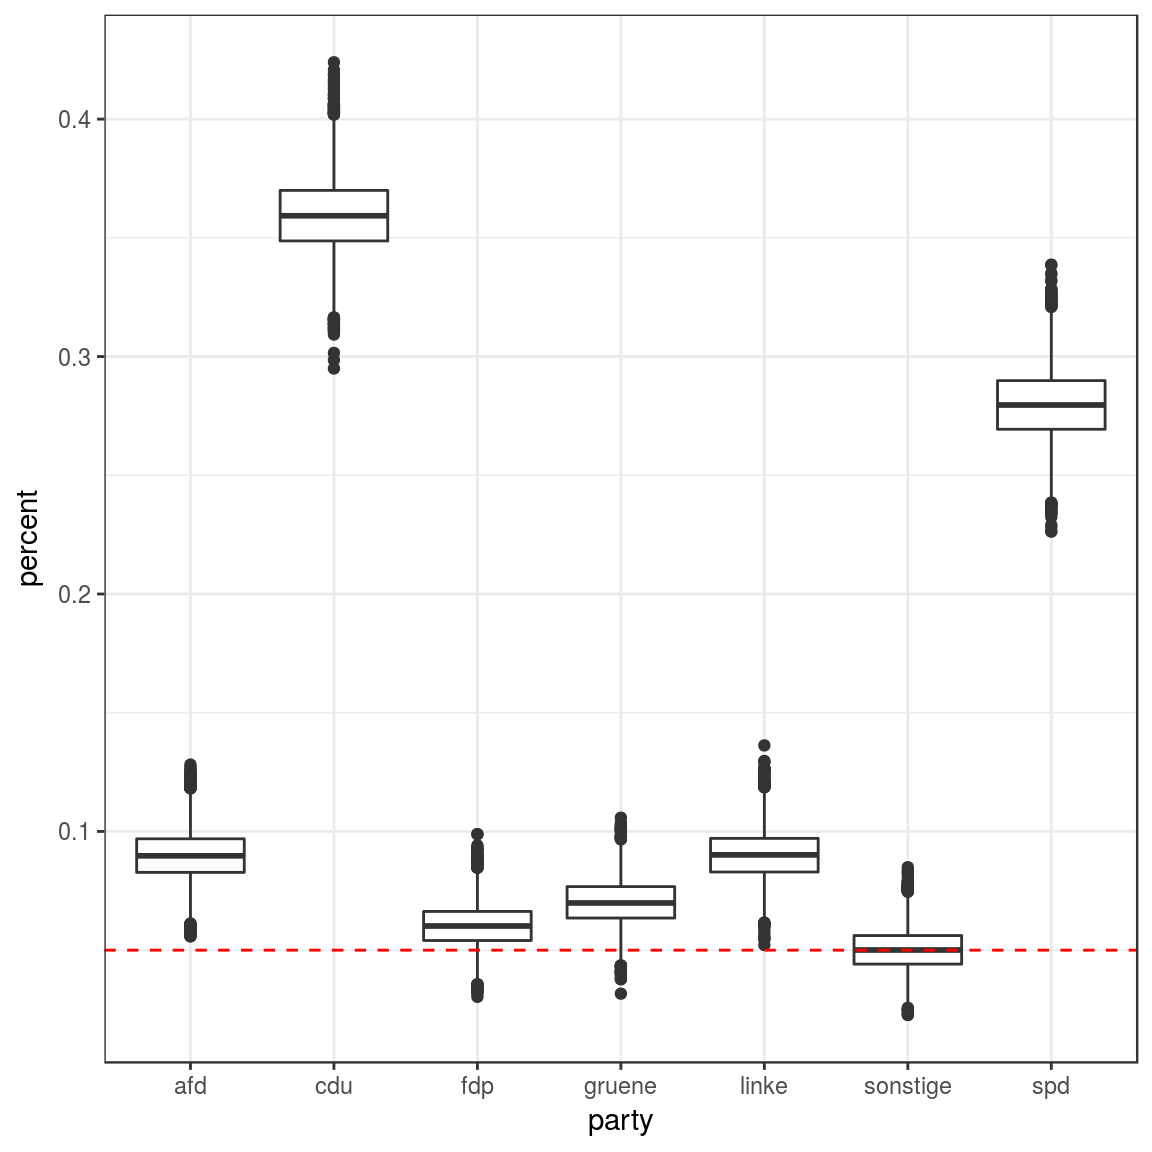
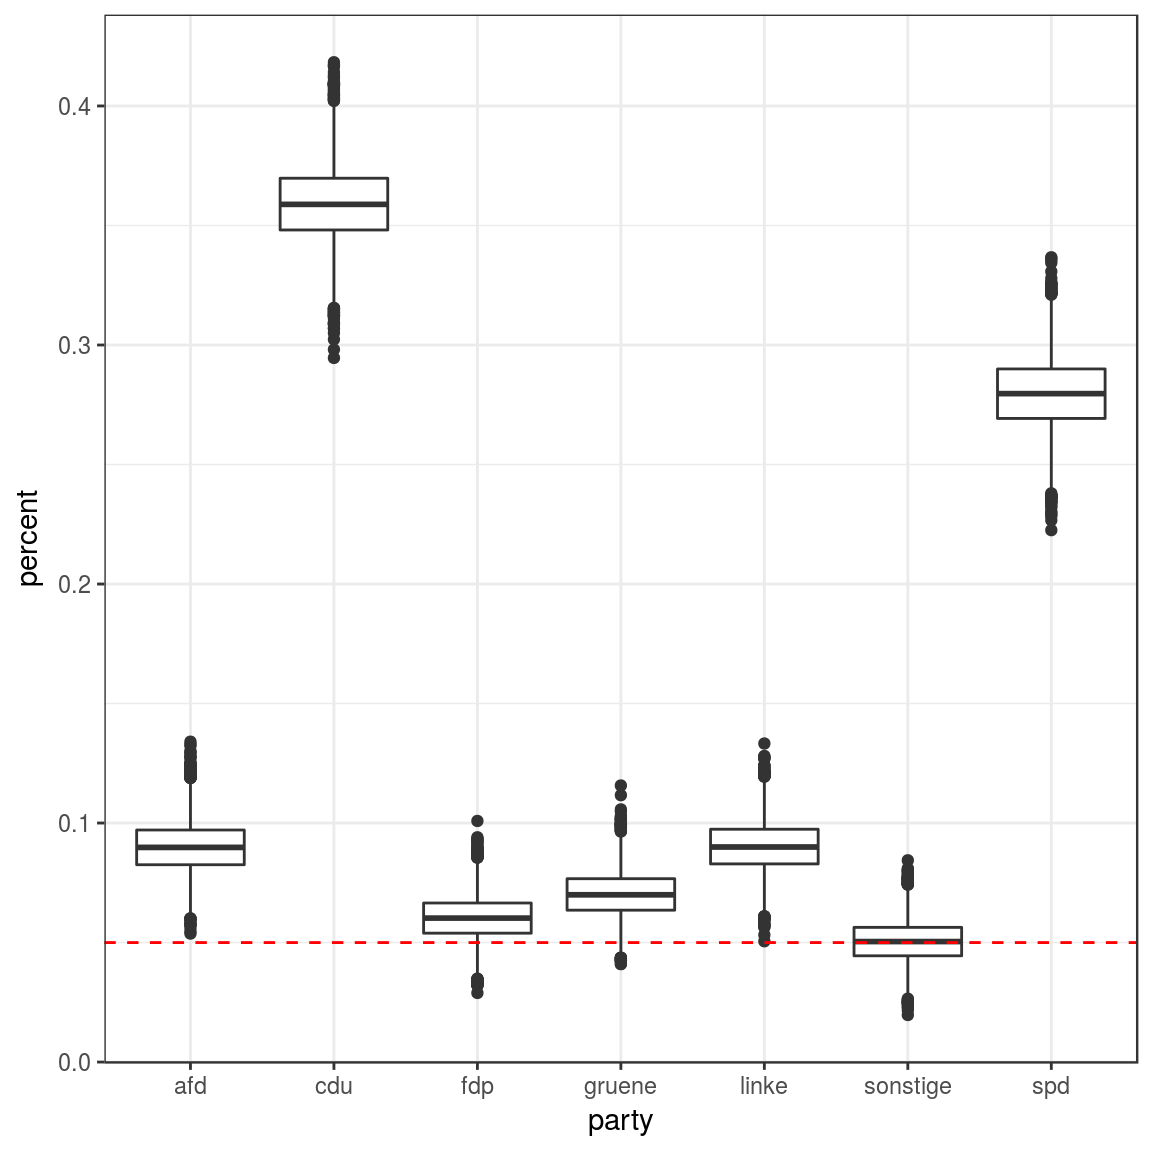
Minor updates

diff --git a/docs/articles/workflow.html b/docs/articles/workflow.html
@@ -77,10 +77,8 @@
 <div class="sourceCode"><pre class="sourceCode r"><code class="sourceCode r"><span class="kw">library</span>(magrittr)
 <span class="kw">library</span>(tidyr)
 <span class="kw">library</span>(purrr)
-<span class="kw">library</span>(dplyr)</code></pre></div>
-<pre><code>## Warning: Installed Rcpp (0.12.12) different from Rcpp used to build dplyr (0.12.11).
-## Please reinstall dplyr to avoid random crashes or undefined behavior.</code></pre>
-<div class="sourceCode"><pre class="sourceCode r"><code class="sourceCode r"><span class="kw">library</span>(coalitions)</code></pre></div>
+<span class="kw">library</span>(dplyr)
+<span class="kw">library</span>(coalitions)</code></pre></div>
 <p>In this vignette we demonstrate the basic workflow using the most recent emnid survey.</p>
 <div id="overview" class="section level2">
 <h2 class="hasAnchor">
@@ -165,16 +163,16 @@ elong %&gt;%<span class="st"> </span><span class="kw"><a href="http://dplyr.tidy
 <pre><code>## # A tibble: 10 x 7
 ##          cdu       spd     gruene        fdp      linke        afd
 ##        &lt;dbl&gt;     &lt;dbl&gt;      &lt;dbl&gt;      &lt;dbl&gt;      &lt;dbl&gt;      &lt;dbl&gt;
-##  1 0.3786999 0.2568651 0.08400958 0.08160463 0.08525350 0.07699451
-##  2 0.3657646 0.2724531 0.07901004 0.07493077 0.08008047 0.08840173
-##  3 0.3795010 0.2502211 0.08045053 0.07620655 0.08947398 0.08316706
-##  4 0.3718863 0.2481470 0.08473377 0.08861011 0.08782506 0.07765593
-##  5 0.3811487 0.2564617 0.07614780 0.08074728 0.09020863 0.07786583
-##  6 0.3788528 0.2421410 0.07750435 0.08199287 0.08798716 0.09438864
-##  7 0.3767009 0.2491272 0.07154483 0.08022790 0.09370573 0.08920036
-##  8 0.3820968 0.2486110 0.08015811 0.07736577 0.09625755 0.08053779
-##  9 0.3613257 0.2530430 0.08121106 0.08502827 0.09727146 0.08704827
-## 10 0.3897056 0.2445914 0.08904171 0.07254598 0.08788933 0.08092956
+##  1 0.3866309 0.2571468 0.07468461 0.08144271 0.09215422 0.06720231
+##  2 0.3736241 0.2661663 0.08559975 0.07451706 0.08961519 0.06954215
+##  3 0.3585021 0.2736486 0.08651282 0.07195225 0.08801357 0.07882016
+##  4 0.3651763 0.2670033 0.07699055 0.07745144 0.08834824 0.08613915
+##  5 0.3819904 0.2595631 0.07826840 0.07535248 0.09279285 0.07802071
+##  6 0.3910751 0.2410287 0.08805413 0.06338518 0.09739469 0.08555212
+##  7 0.3921429 0.2446776 0.07674063 0.07451124 0.09186834 0.07999668
+##  8 0.3865743 0.2446804 0.07403173 0.07415406 0.09298724 0.08726427
+##  9 0.3764433 0.2552434 0.08384205 0.07313775 0.09127839 0.08315747
+## 10 0.3696751 0.2417991 0.09016686 0.08074264 0.09099347 0.08265365
 ## # ... with 1 more variables: sonstige &lt;dbl&gt;</code></pre>
 </div>
 <div id="calculate-seat-distribution" class="section level2">
@@ -188,25 +186,25 @@ elong %&gt;%<span class="st"> </span><span class="kw"><a href="http://dplyr.tidy
 ##        datum           survey             draws             seats
 ##       &lt;date&gt;           &lt;list&gt;            &lt;list&gt;            &lt;list&gt;
 ## 1 2017-07-22 &lt;tibble [7 x 3]&gt; &lt;tibble [10 x 7]&gt; &lt;tibble [60 x 3]&gt;
-## 2 2017-07-15 &lt;tibble [7 x 3]&gt; &lt;tibble [10 x 7]&gt; &lt;tibble [60 x 3]&gt;
+## 2 2017-07-15 &lt;tibble [7 x 3]&gt; &lt;tibble [10 x 7]&gt; &lt;tibble [59 x 3]&gt;
 ## 3 2017-07-08 &lt;tibble [7 x 3]&gt; &lt;tibble [10 x 7]&gt; &lt;tibble [60 x 3]&gt;
 ## 4 2017-07-01 &lt;tibble [7 x 3]&gt; &lt;tibble [10 x 7]&gt; &lt;tibble [60 x 3]&gt;
-## 5 2017-06-24 &lt;tibble [7 x 3]&gt; &lt;tibble [10 x 7]&gt; &lt;tibble [60 x 3]&gt;
+## 5 2017-06-24 &lt;tibble [7 x 3]&gt; &lt;tibble [10 x 7]&gt; &lt;tibble [59 x 3]&gt;
 ## 6 2017-06-17 &lt;tibble [7 x 3]&gt; &lt;tibble [10 x 7]&gt; &lt;tibble [60 x 3]&gt;</code></pre>
 <div class="sourceCode"><pre class="sourceCode r"><code class="sourceCode r">## sim column indicates simulated elections (rows in draws column)
 elong %&gt;%<span class="st"> </span><span class="kw"><a href="http://dplyr.tidyverse.org/reference/slice.html">slice</a></span>(<span class="dv">1</span>) %&gt;%<span class="st"> </span><span class="kw"><a href="http://dplyr.tidyverse.org/reference/select.html">select</a></span>(seats) %&gt;%<span class="st"> </span><span class="kw"><a href="http://www.rdocumentation.org/packages/tidyr/topics/unnest">unnest</a></span>()</code></pre></div>
 <pre><code>## # A tibble: 60 x 3
 ##      sim  party seats
 ##    &lt;int&gt;  &lt;chr&gt; &lt;int&gt;
-##  1     1    cdu   235
-##  2     1    spd   159
-##  3     1 gruene    52
+##  1     1    cdu   241
+##  2     1    spd   160
+##  3     1 gruene    47
 ##  4     1    fdp    51
-##  5     1  linke    53
-##  6     1    afd    48
-##  7     2    cdu   228
-##  8     2    spd   169
-##  9     2 gruene    49
+##  5     1  linke    57
+##  6     1    afd    42
+##  7     2    cdu   233
+##  8     2    spd   166
+##  9     2 gruene    53
 ## 10     2    fdp    47
 ## # ... with 50 more rows</code></pre>
 <p>In the above example, given the latest survey, CDU/CSU would have 225 seats in the first simulation, 223 seats in the second simulation, etc.</p>
@@ -233,10 +231,10 @@ elong %&gt;%<span class="st"> </span><span class="kw"><a href="http://dplyr.tidy
 ##        datum             draws             seats        majorities
 ##       &lt;date&gt;            &lt;list&gt;            &lt;list&gt;            &lt;list&gt;
 ## 1 2017-07-22 &lt;tibble [10 x 7]&gt; &lt;tibble [60 x 3]&gt; &lt;tibble [10 x 8]&gt;
-## 2 2017-07-15 &lt;tibble [10 x 7]&gt; &lt;tibble [60 x 3]&gt; &lt;tibble [10 x 8]&gt;
+## 2 2017-07-15 &lt;tibble [10 x 7]&gt; &lt;tibble [59 x 3]&gt; &lt;tibble [10 x 8]&gt;
 ## 3 2017-07-08 &lt;tibble [10 x 7]&gt; &lt;tibble [60 x 3]&gt; &lt;tibble [10 x 8]&gt;
 ## 4 2017-07-01 &lt;tibble [10 x 7]&gt; &lt;tibble [60 x 3]&gt; &lt;tibble [10 x 8]&gt;
-## 5 2017-06-24 &lt;tibble [10 x 7]&gt; &lt;tibble [60 x 3]&gt; &lt;tibble [10 x 8]&gt;
+## 5 2017-06-24 &lt;tibble [10 x 7]&gt; &lt;tibble [59 x 3]&gt; &lt;tibble [10 x 8]&gt;
 ## 6 2017-06-17 &lt;tibble [10 x 7]&gt; &lt;tibble [60 x 3]&gt; &lt;tibble [10 x 8]&gt;</code></pre>
 <div class="sourceCode"><pre class="sourceCode r"><code class="sourceCode r"><span class="co"># The majorities table for each date will have 1 row per simulation</span>
 <span class="co"># and one column per coalition</span>
@@ -296,14 +294,14 @@ elong %&gt;%<span class="st"> </span><span class="kw"><a href="../reference/get_
 ##           coalition probability
 ##               &lt;chr&gt;       &lt;dbl&gt;
 ##  1              cdu           0
-##  2          cdu_fdp          10
-##  3   cdu_fdp_gruene          90
+##  2          cdu_fdp           0
+##  3   cdu_fdp_gruene         100
 ##  4              spd           0
 ##  5        linke_spd           0
 ##  6 gruene_linke_spd           0
 ##  7              cdu           0
-##  8          cdu_fdp          10
-##  9   cdu_fdp_gruene          90
+##  8          cdu_fdp           0
+##  9   cdu_fdp_gruene         100
 ## 10              spd           0
 ## # ... with 26 more rows</code></pre>
 </div>

diff --git a/docs/articles/diagnostic.html b/docs/articles/diagnostic.html
@@ -77,10 +77,8 @@
 <div class="sourceCode"><pre class="sourceCode r"><code class="sourceCode r"><span class="kw">library</span>(magrittr)
 <span class="kw">library</span>(tidyr)
 <span class="kw">library</span>(purrr)
-<span class="kw">library</span>(dplyr)</code></pre></div>
-<pre><code>## Warning: Installed Rcpp (0.12.12) different from Rcpp used to build dplyr (0.12.11).
-## Please reinstall dplyr to avoid random crashes or undefined behavior.</code></pre>
-<div class="sourceCode"><pre class="sourceCode r"><code class="sourceCode r"><span class="kw">library</span>(coalitions)
+<span class="kw">library</span>(dplyr)
+<span class="kw">library</span>(coalitions)
 <span class="kw">library</span>(ggplot2)
 <span class="kw"><a href="http://www.rdocumentation.org/packages/ggplot2/topics/theme_get">theme_set</a></span>(<span class="kw"><a href="http://www.rdocumentation.org/packages/ggplot2/topics/ggtheme">theme_bw</a></span>())</code></pre></div>
 <div class="sourceCode"><pre class="sourceCode r"><code class="sourceCode r">temp &lt;-<span class="st"> </span><span class="kw"><a href="../reference/scrape.html">scrape_wahlrecht</a></span>() %&gt;%<span class="st"> </span><span class="kw"><a href="http://dplyr.tidyverse.org/reference/slice.html">slice</a></span>(<span class="dv">1</span>) %&gt;%<span class="st"> </span><span class="kw"><a href="../reference/collapse_parties.html">collapse_parties</a></span>() %&gt;%<span class="st"> </span><span class="kw"><a href="http://www.rdocumentation.org/packages/tidyr/topics/unnest">unnest</a></span>()
@@ -103,7 +101,7 @@ draws_long &lt;-<span class="st"> </span><span class="kw"><a href="http://www.rd
 <span class="kw"><a href="http://www.rdocumentation.org/packages/ggplot2/topics/ggplot">ggplot</a></span>(draws_long, <span class="kw"><a href="http://www.rdocumentation.org/packages/ggplot2/topics/aes">aes</a></span>(<span class="dt">x=</span>sim, <span class="dt">y=</span>percent)) +<span class="st"> </span>
 <span class="st">    </span><span class="kw"><a href="http://www.rdocumentation.org/packages/ggplot2/topics/geom_path">geom_path</a></span>() +<span class="st"> </span>
 <span class="st">    </span><span class="kw"><a href="http://www.rdocumentation.org/packages/ggplot2/topics/geom_abline">geom_hline</a></span>(<span class="dt">yintercept =</span> <span class="fl">0.05</span>, <span class="dt">lty=</span><span class="dv">2</span>, <span class="dt">col=</span><span class="dv">2</span>) +<span class="st"> </span>
-<span class="st">    </span><span class="kw"><a href="http://www.rdocumentation.org/packages/ggplot2/topics/facet_wrap">facet_wrap</a></span>(~party)</code></pre></div>
+<span class="st">    </span><span class="kw"><a href="http://www.rdocumentation.org/packages/ggplot2/topics/facet_wrap">facet_wrap</a></span>(~party, <span class="dt">nrow=</span><span class="dv">2</span>)</code></pre></div>
 <p><img src="diagnostic_files/figure-html/unnamed-chunk-4-2.png" width="576" style="display: block; margin: auto;"></p>
 <div class="sourceCode"><pre class="sourceCode r"><code class="sourceCode r">draws_long %&gt;%<span class="st"> </span>
 <span class="st">    </span><span class="kw"><a href="http://dplyr.tidyverse.org/reference/group_by.html">group_by</a></span>(party) %&gt;%<span class="st"> </span>
@@ -113,10 +111,10 @@ draws_long &lt;-<span class="st"> </span><span class="kw"><a href="http://www.rd
 ##      &lt;chr&gt;     &lt;dbl&gt;
 ## 1      afd    1.0000
 ## 2      cdu    1.0000
-## 3      fdp    0.8760
-## 4   gruene    0.9852
+## 3      fdp    0.8675
+## 4   gruene    0.9869
 ## 5    linke    1.0000
-## 6 sonstige    0.5027
+## 6 sonstige    0.5178
 ## 7      spd    1.0000</code></pre>
 </div>
   </div>

diff --git a/docs/index.html b/docs/index.html
@@ -89,7 +89,7 @@
 <div id="usage" class="section level2">
 <h2 class="hasAnchor">
 <a href="#usage" class="anchor"></a>Usage</h2>
-<p>Detailed workflow is outlined in the vignettes enclosed in the package, especially in <code>vignette("workflow", package="coalitions")</code>.</p>
+<p>Detailed workflow is outlined in the vignettes enclosed in the package, especially in <code><a href="https://cran.rstudio.com/web/packages/coalitions/vignettes/workflow.html">vignette("workflow", package="coalitions")</a></code>.</p>
 <div id="scrape-surveys" class="section level3">
 <h3 class="hasAnchor">
 <a href="#scrape-surveys" class="anchor"></a>Scrape surveys</h3>

diff --git a/docs/articles/index.html b/docs/articles/index.html
@@ -88,7 +88,7 @@
       </header>
 
       <div class="page-header">
-  <h1>Articles <small>version&nbsp;0.2.902</small></h1>
+  <h1>Articles <small>version&nbsp;0.3.0</small></h1>
 </div>
 
 <div class="row">

diff --git a/docs/reference/index.html b/docs/reference/index.html
@@ -92,7 +92,7 @@
     <div class="page-header">
       <h1>
         Reference
-        <small>version&nbsp;0.2.902</small>
+        <small>version&nbsp;0.3.0</small>
       </h1>
     </div>
 
